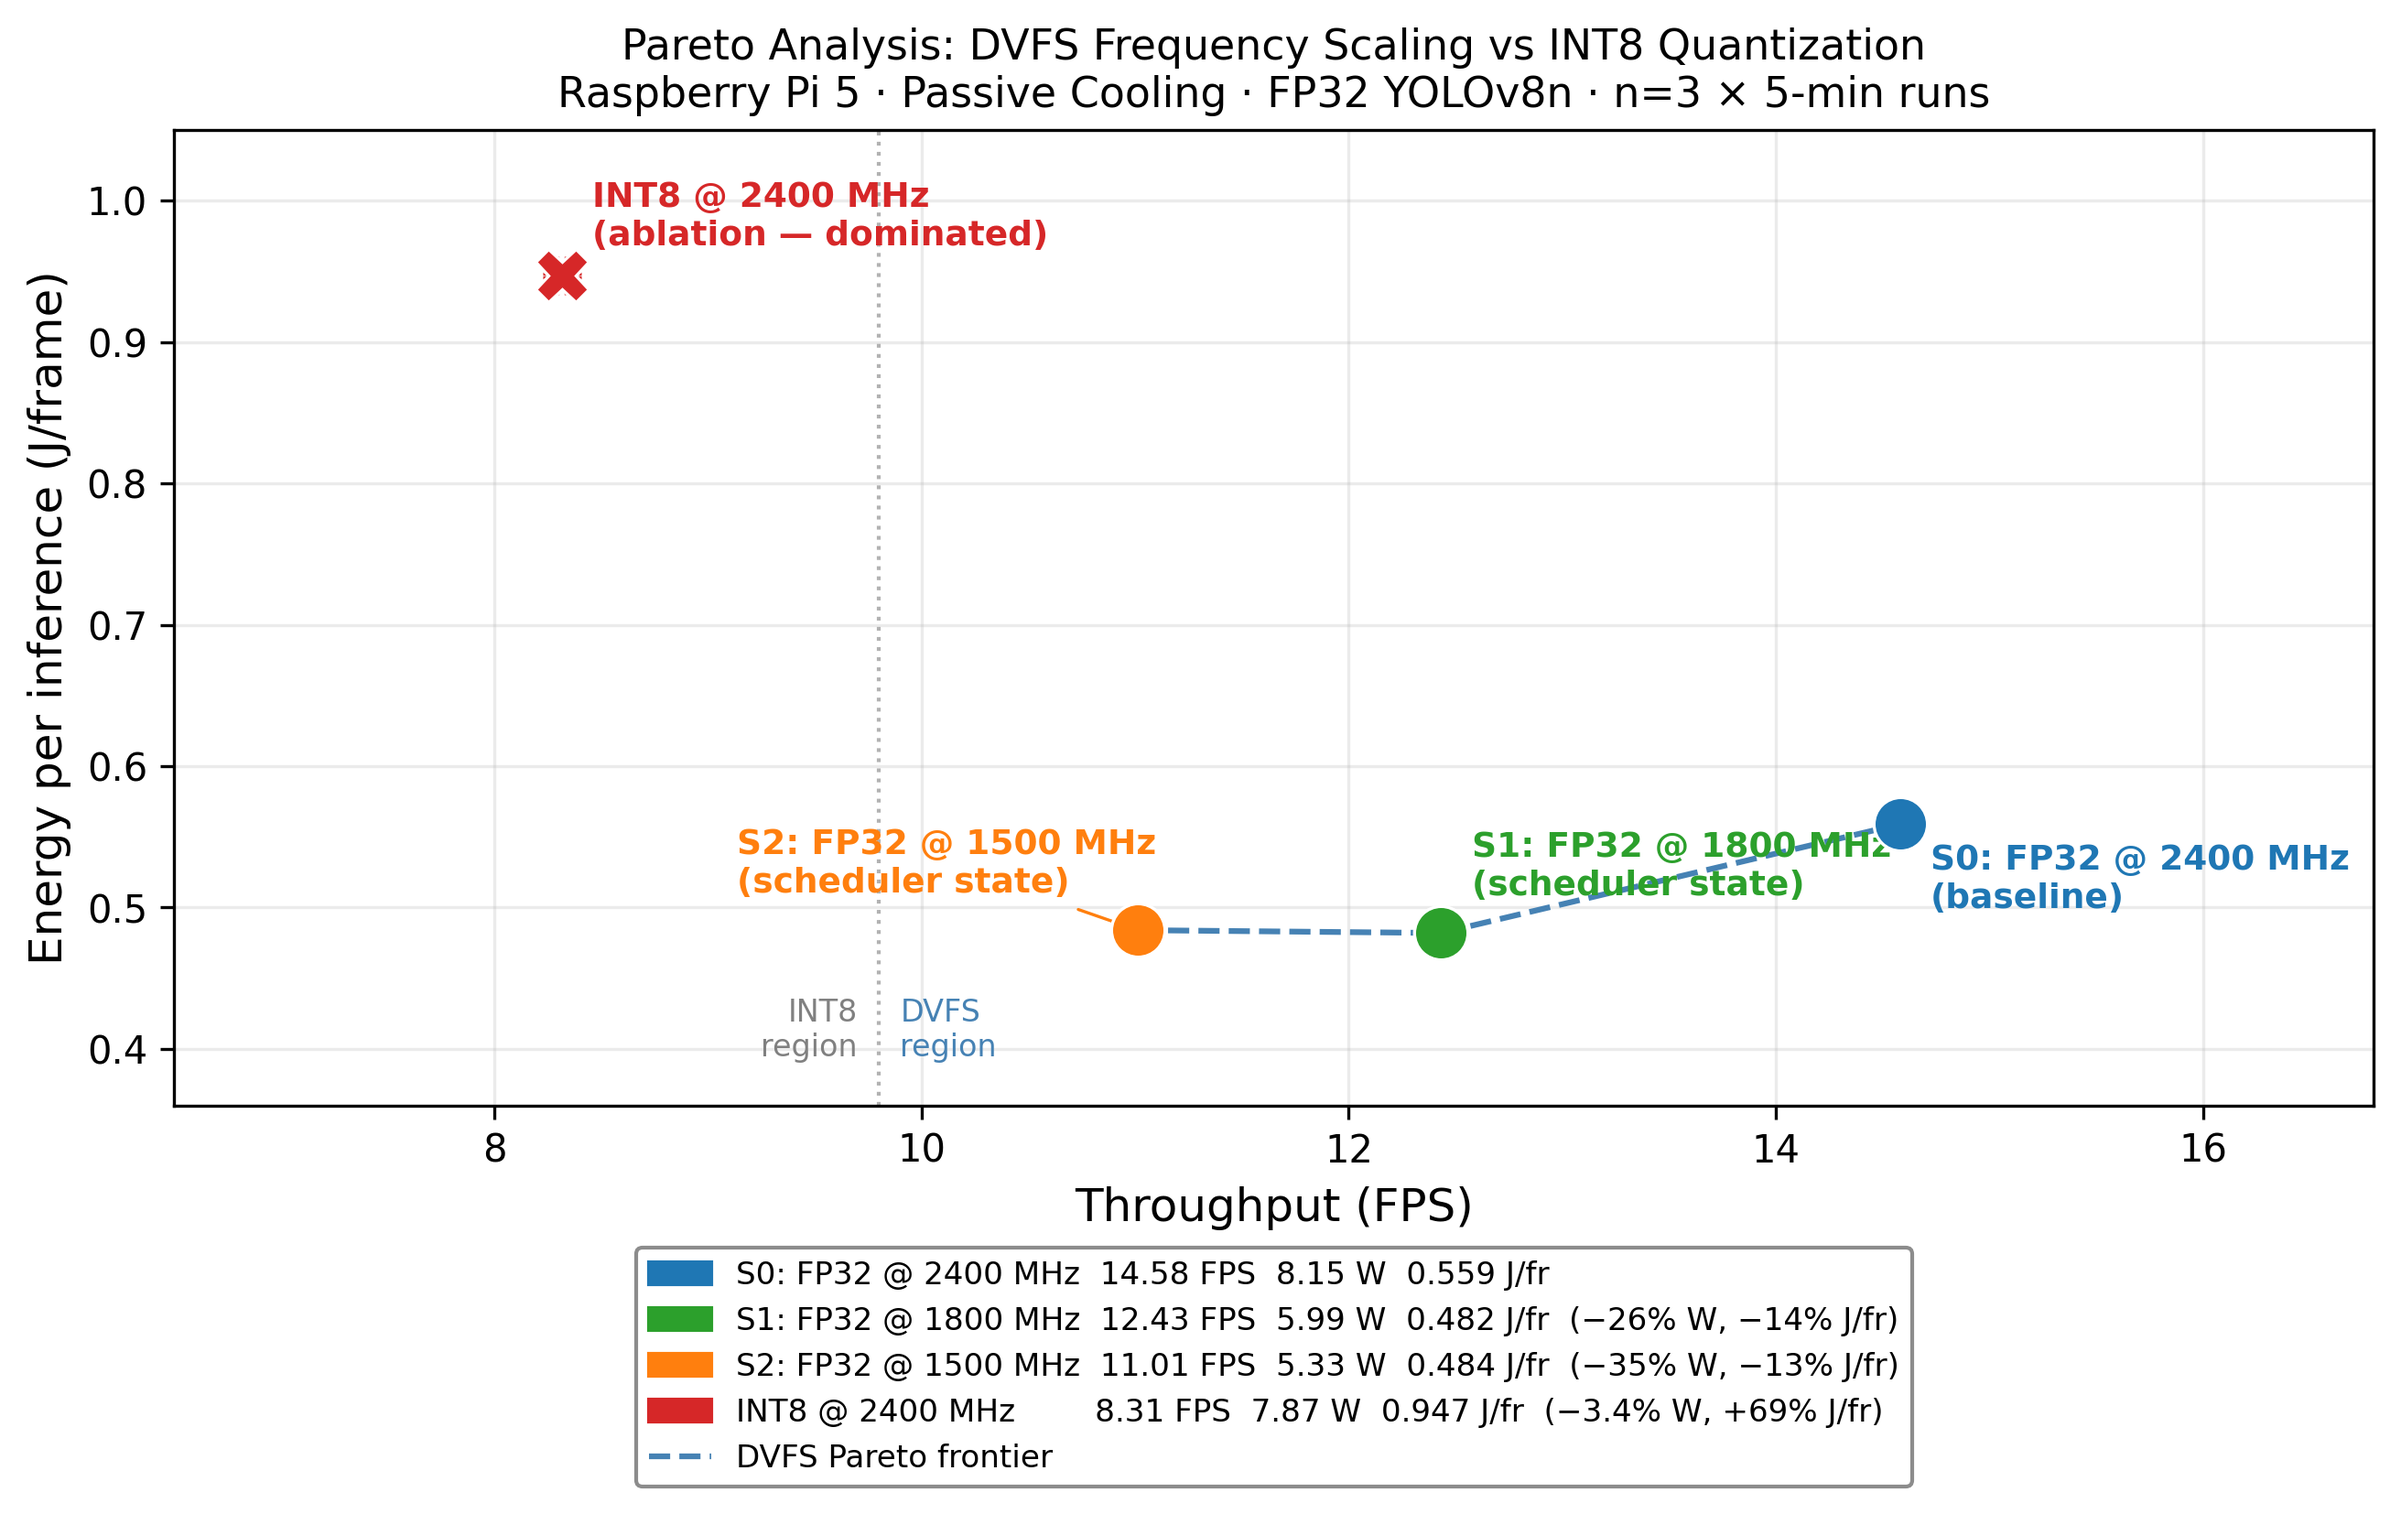
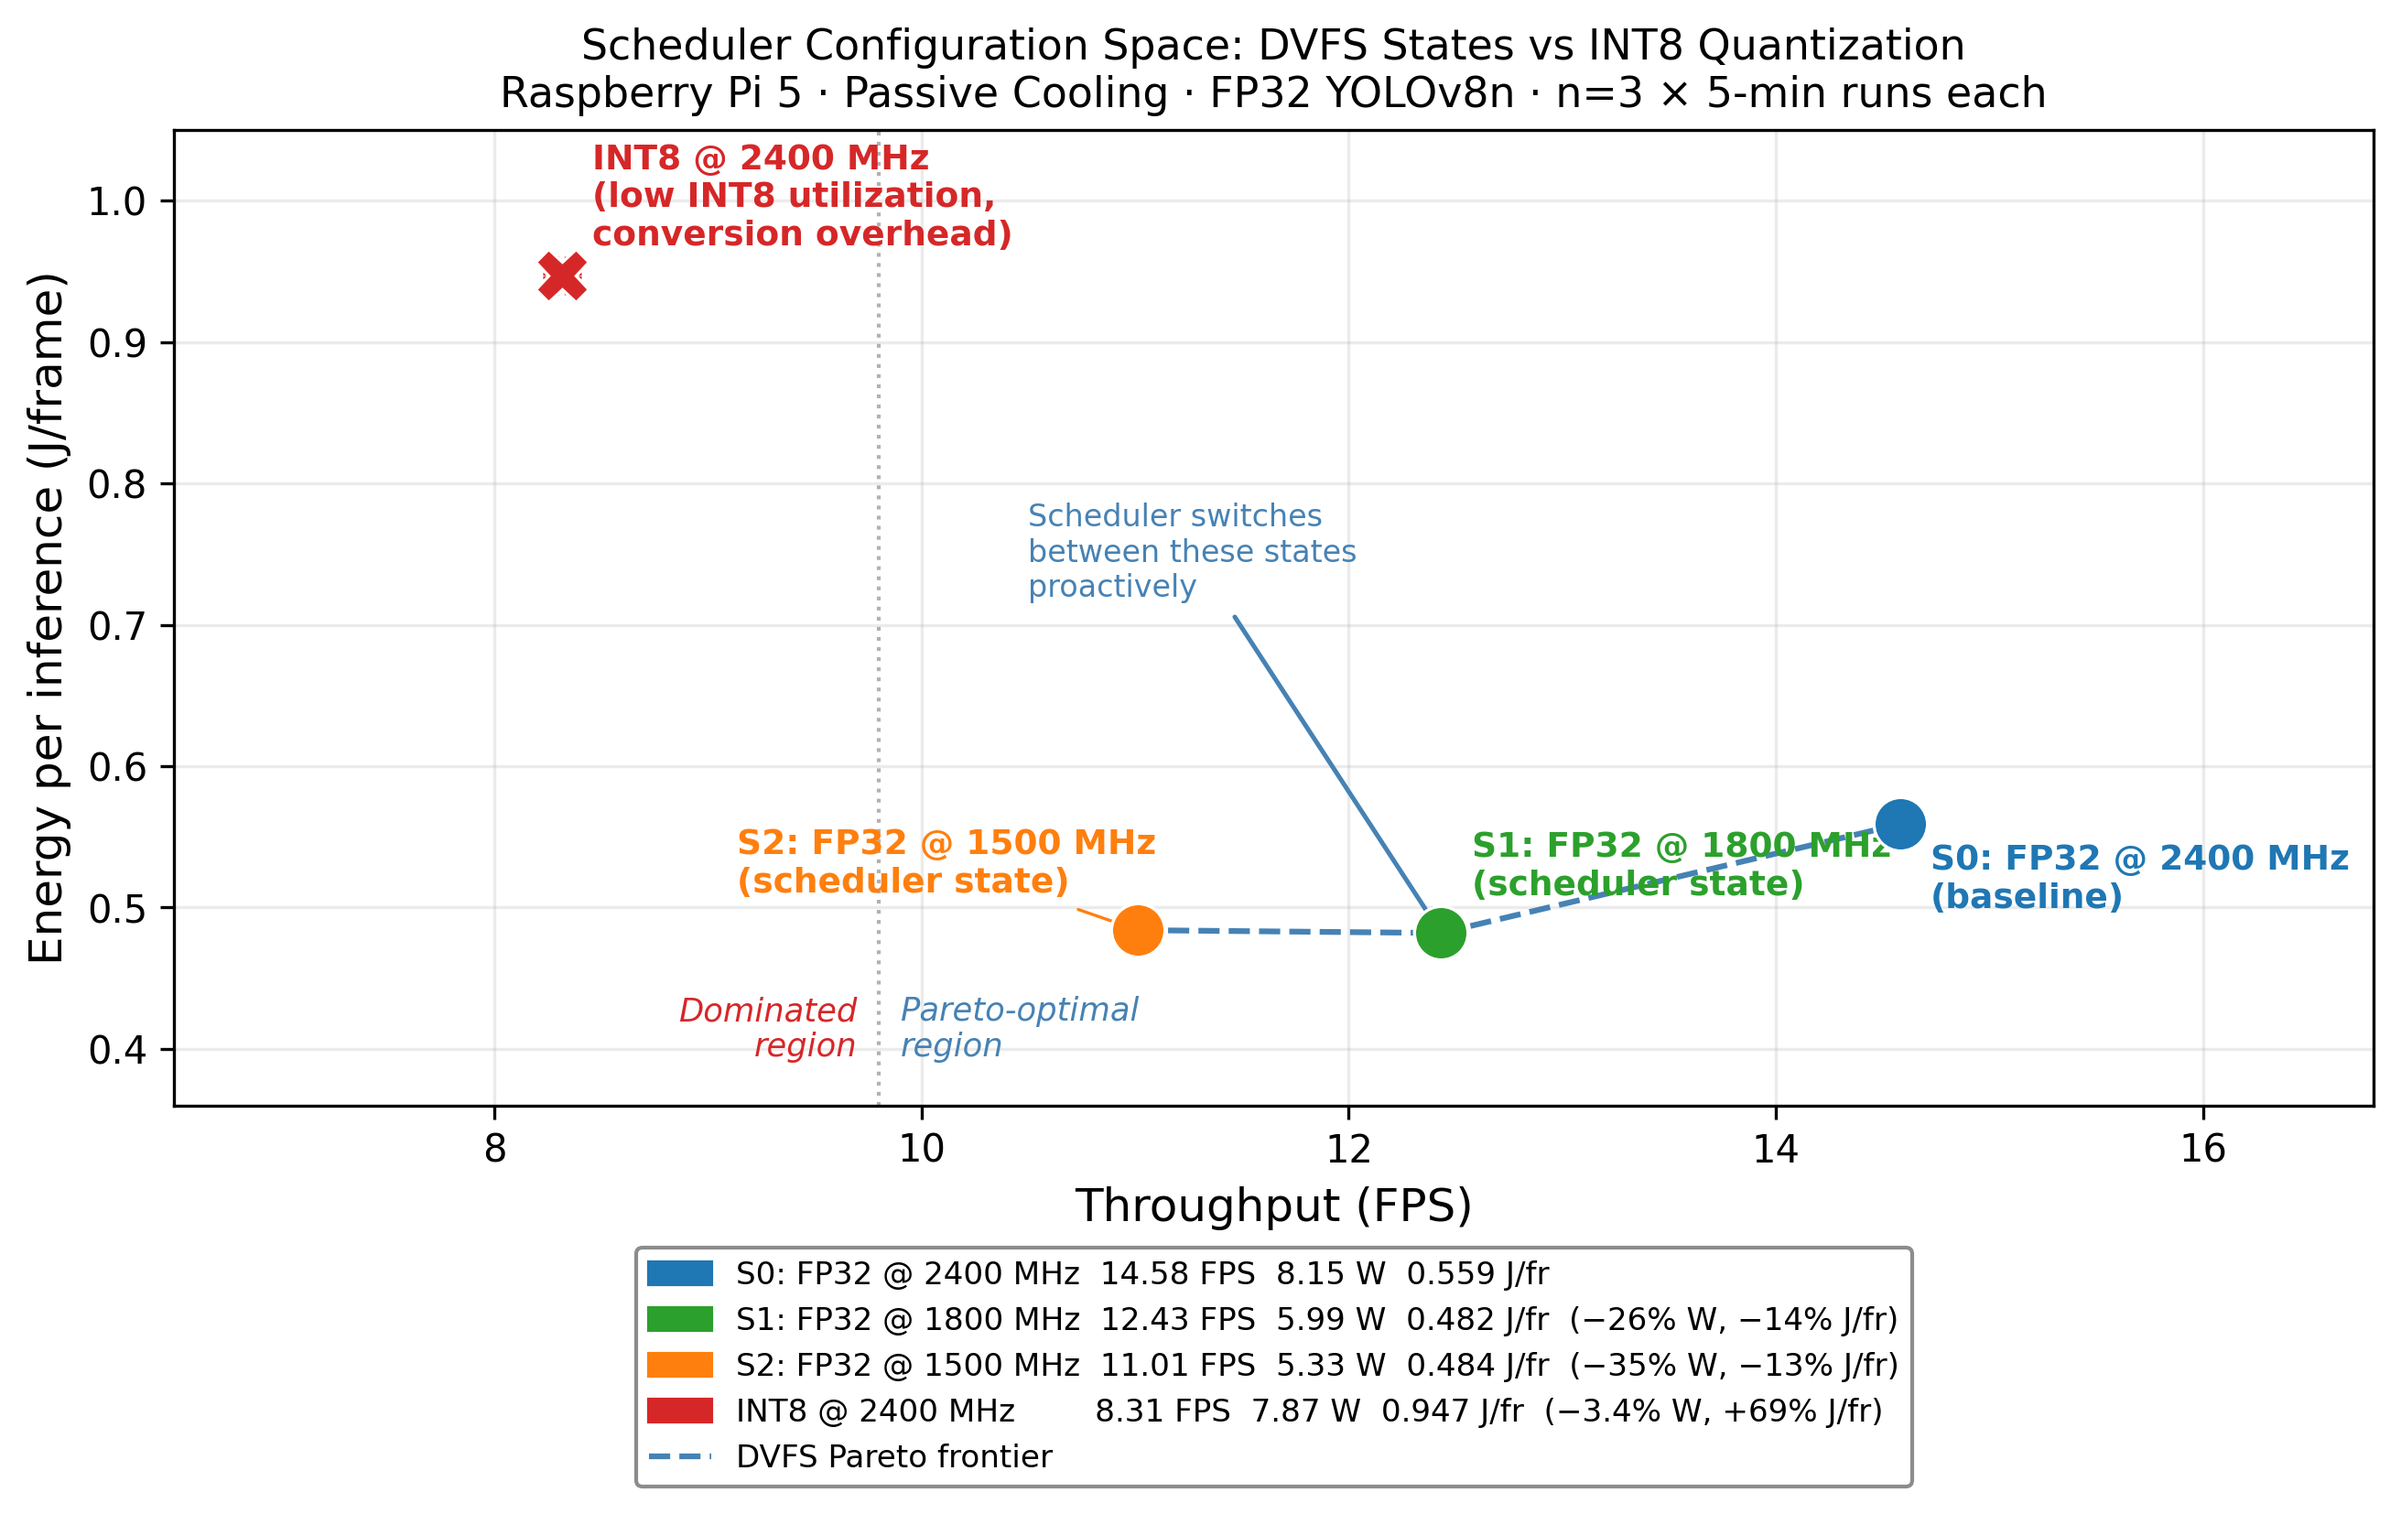
Pareto figure v3: scheduler framing + scoped INT8 label + region annotations
- Title reframed as scheduler configuration space (not just DVFS study)
- Regions labeled 'Dominated' vs 'Pareto-optimal'
- INT8 label scoped to OpenVINO/Pi 5 specific cause
- Scheduler switching annotation added

Changed region(s): [[0.2162, 0.0, 0.8338, 0.185], [0.2779, 0.6475, 0.4632, 0.7092], [0.4323, 0.3392, 0.5559, 0.4008]]

diff --git a/03_code/analysis/plot_pareto.py b/03_code/analysis/plot_pareto.py
@@ -25,7 +25,7 @@ configs = [
     {"label": "S2: FP32 @ 1500 MHz\n(scheduler state)",
      "fps": 11.012, "fps_std": 0.016, "jpf": 0.484, "jpf_std": 0.002,
      "color": "#ff7f0e", "marker": "o", "pareto": True},
-    {"label": "INT8 @ 2400 MHz\n(ablation — dominated)",
+    {"label": "INT8 @ 2400 MHz\n(low INT8 utilization,\nconversion overhead)",
      "fps": 8.315,  "fps_std": 0.019, "jpf": 0.947, "jpf_std": 0.001,
      "color": "#d62728", "marker": "X", "pareto": False},
 ]
@@ -67,16 +67,20 @@ for c in configs:
 
 # Vertical separator between DVFS region and INT8
 ax.axvline(x=9.8, color="gray", linestyle=":", linewidth=1, alpha=0.6)
-ax.text(9.7, 0.39, "INT8\nregion", fontsize=8, color="gray",
-        ha="right", va="bottom")
-ax.text(9.9, 0.39, "DVFS\nregion", fontsize=8, color="steelblue",
-        ha="left", va="bottom")
-
+ax.text(9.7, 0.39, "Dominated\nregion", fontsize=8.5, color="#d62728",
+        ha="right", va="bottom", style="italic")
+ax.text(9.9, 0.39, "Pareto-optimal\nregion", fontsize=8.5, color="steelblue",
+        ha="left", va="bottom", style="italic")
+# Scheduler framing arrow
+ax.annotate("Scheduler switches\nbetween these states\nproactively",
+            xy=(12.432, 0.482), xytext=(10.5, 0.72),
+            fontsize=8, color="steelblue",
+            arrowprops=dict(arrowstyle="->", color="steelblue", lw=1.2))
 # Axes
 ax.set_xlabel("Throughput (FPS)", fontsize=12)
 ax.set_ylabel("Energy per inference (J/frame)", fontsize=12)
-ax.set_title("Pareto Analysis: DVFS Frequency Scaling vs INT8 Quantization\n"
-             "Raspberry Pi 5 · Passive Cooling · FP32 YOLOv8n · n=3 × 5-min runs",
+ax.set_title("Scheduler Configuration Space: DVFS States vs INT8 Quantization\n"
+             "Raspberry Pi 5 · Passive Cooling · FP32 YOLOv8n · n=3 × 5-min runs each",
              fontsize=11)
 ax.set_xlim(6.5, 16.8)
 ax.set_ylim(0.36, 1.05)
